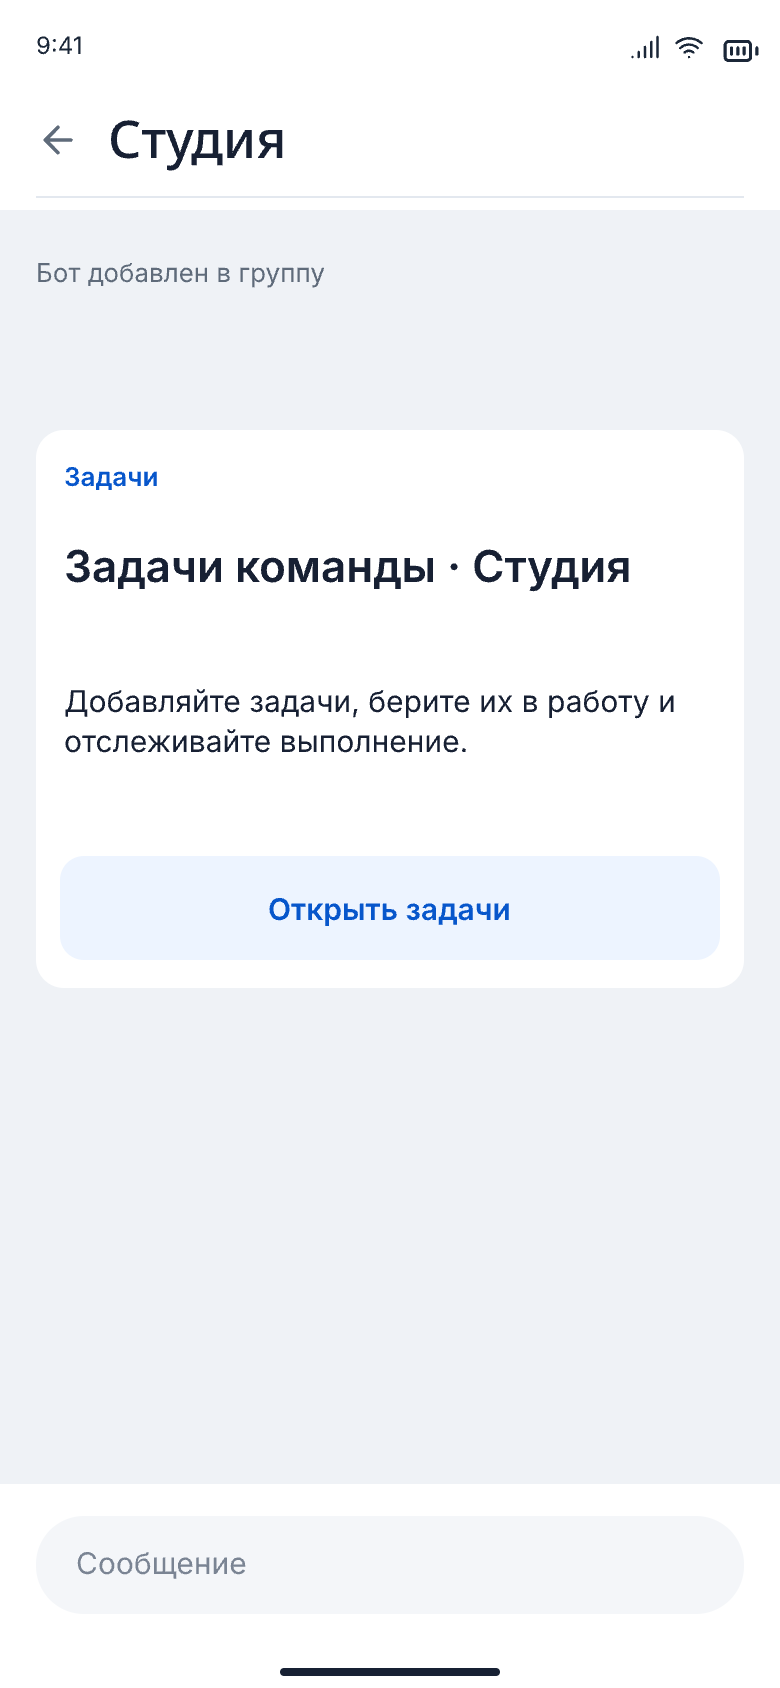
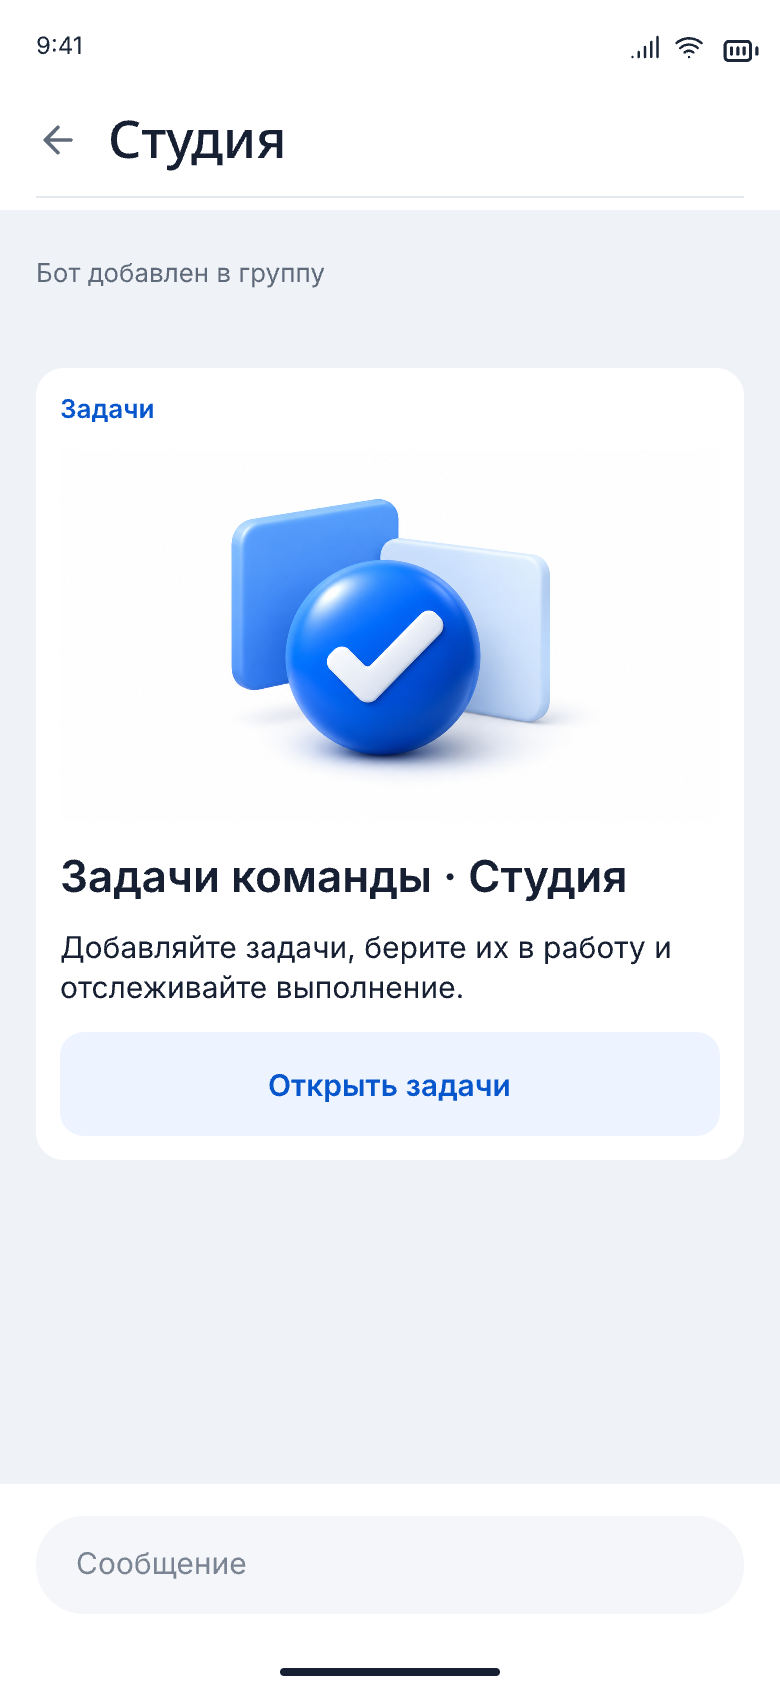
docs: завершить композицию группового сообщения #76

Changed region(s): [[0.0923, 0.2773, 0.8615, 0.4621], [0.0615, 0.4929, 0.8615, 0.6777], [0.0923, 0.2156, 0.1846, 0.2464]]

diff --git a/artifacts/ux/issue-76-handoff.md b/artifacts/ux/issue-76-handoff.md
@@ -9,7 +9,7 @@
 - Владелец принял пакет создания/бэклога («DВсе хорошо принято»), пакет парной доски («Окей, норм») и групповой пакет («ок»).
 - Затем отдельно приняты изображение и формат одного сообщения: изображение сверху, согласованный текст подписью, кнопка «Открыть задачи».
 - Предложенная переделка блокеров отклонена: «Не обязательно, уже в целом норм сделано там все». Новый экран установки блокера из канбана/деталей не рисуется и не реализуется в этом цикле. Это не отменяет уже принятую возможность задать начальный статус «Блокер» при создании в #77.
-- Публикация решений, commit и PR разрешены отдельным «Да». Изменения кода приложения, merge, закрытие Issues и deploy этим не разрешены.
+- Первый пакет опубликован и влит через PR #84 по отдельной команде `/taskfinish`. После предъявления совмещённого сообщения владелец ответил «OOk что дальше», затем «Го» на предложение опубликовать последнюю композицию через PR и закрыть #76. Это завершение дизайна, не запуск кода #77 или deploy.
 - Физические Telegram-устройства, реальная отправка ботом, работа API/DB и доступ из MCP этим дизайном не проверены.
 
 ## Создание и бэклог: #77–#78
@@ -73,7 +73,7 @@
 - [Подключение и первое открытие](exports/issue-76-group/review-01-connect.png).
 - [Повторный вход и ошибки](exports/issue-76-group/review-02-return.png).
 
-**Граница визуального evidence:** `Mt93Z` / `a8ltz` и соответствующий обзор показывают принятый текстовый вариант сообщения до добавления иллюстрации. Картинка принята отдельно позднее и пока не встроена в эти roots/PNG. Конечный формат выше имеет приоритет; нельзя реализовать текстовый вариант без изображения по старому PNG. Совмещённый макет сообщения с изображением не экспортировался, Telegram smoke не выполнялся.
+**Совмещённый макет:** `Mt93Z` (390 px) / `a8ltz` (320 px) содержат общую иллюстрацию над подписью и одну кнопку в том же сообщении. Обновлены оба PNG и обзор подключения. Белый блок использует вертикальную компоновку: отправитель, изображение, заголовок, описание, кнопка; на 320 px заголовок переносится, текст и действие не обрезаются. Собранная композиция принята после предъявления; metadata — `approved`. Это макет Telegram-чата, не реальная отправка ботом и не Telegram smoke.
 
 ## Второстепенные экраны: #81
 
@@ -82,11 +82,27 @@
 ## Проверка и ограничения
 
 - Новые roots и PNG сверяются по индексу ниже. Ширины макетов — 390/320 px; PNG экспортированы в масштабе 2× (780×1688 / 640×1688).
-- Старые roots относительно базового commit сохранены без изменений. Метаданные новых roots отмечены `approved`; название `REVIEW` сохранено для стабильности идентификаторов.
+- Старые roots относительно базового commit сохранены без изменений. Все 73 принятых root отмечены `approved`. Название `REVIEW` сохранено для стабильности идентификаторов.
 - В пакетах есть клавиатура, пустые состояния, ожидание, ошибки, отказы в доступе, успех и возврат; это выборочные состояния сценариев, а не полный декартов набор.
 - Статические макеты не доказывают focus trap, Escape/return focus, 200% text sizing, работу экранного диктора, Telegram iOS/Android, API, права и безопасный retry. Эти проверки выполняются при реализации и в #83.
 - #82 (MCP) остаётся отдельным design/security prerequisite. Подключение и права MCP в этом пакете не спроектированы и не реализованы.
 - Следующий implementation slice — #77 после принятия PR и отдельной команды. Публикация handoff не запускает реализацию автоматически.
+
+## Карта наблюдений и переходов для design acceptance
+
+Это целевой разбор принятых сценариев, не полный аудит приложения. Источники продуктовых решений — #77–#80 и ответы владельца; индекс ниже связывает каждый сценарий с реальным root/PNG.
+
+- **Создание (#77):** в `apps/web/src/main.tsx:610–623` форма показывает дату/время, но не выбор начального статуса. Новый путь: `create390` / `create320`, выбор `date390` / `time320` / `status390`, при блокере — `blocker320` / `blockerTask390`, затем `afterCreate390`. Ошибка, ожидание и запрет завершения представлены отдельно. Это согласованный новый UX, не утверждение о выполненной API-реализации.
+- **Сбор и разбор (#78):** `apps/web/src/tasks.ts:182–187` исключает неназначенные из «Мои»; «Готово» требует явного фильтра. Путь: заметный вход в `backlog390` / `backlog320`, `claim390`, затем успех либо конфликт. `allUnassigned390` показывает неназначенные других статусов через «Все», не меняя их статус; архив отдельно. Повторное создание — `repeat320`, вставка — `bulkInput390`, предпросмотр, частичная ошибка и успех. Сохранность данных и атомарность проверяются в реализации #78.
+- **Пара (#79):** выбранный владельцем новый сценарий, а не доказанный дефект существующего UI. Путь: `pair_entry390`, `pair_create390`, приглашение владельца, `pair_inviteAccept390`, `pair_joined390`. Доступ, выход, отзыв, замена участника и архив представлены отдельными roots с отказами/ошибками. Решение об обнулении только исполнителя и сохранении истории закреплено выше.
+- **Групповой вход (#80):** исправление предложенного сценария по ответу владельца — одно правильное сообщение, без команд обновления. Путь: `group_guide390`, `group_picker320`, `group_message390` / `group_pinned320`, первичная настройка/ожидание, затем пустой список; повторный вход — `group_return390` / `group_return320`. Ошибка, загрузка и замороженная доска имеют отдельные roots. Картинка встроена в оба макета сообщения, а не оставлена только самостоятельным asset.
+- **Второстепенные поверхности (#81):** browser prompts подтверждены в `apps/web/src/main.tsx:267–274`, но владелец отклонил переделку. Это явное исключение из нового design scope, не исправленный дефект и не скрытый TBD.
+
+### Доступность и граница приёмки
+
+Для совмещённого сообщения рассчитан контраст sRGB: основной текст `#172033` на белом — 16.27:1; кнопка `#0756CB` на `#EDF4FF` — 5.93:1; отправитель `#0756CB` на белом — 6.56:1. Все три пары выше 4.5:1. Это проверка указанных текстовых пар, не полный accessibility-аудит приложения.
+
+Сохранены требования `visual-contract-v2.md`: поля 18/12 px, safe areas, цели нажатия от 44 px, перенос текста, доступная клавиатурная навигация, focus trap/Escape/возврат фокуса для sheets. В новом сообщении кнопка имеет высоту 52 px, подпись остаётся текстом, а иллюстрация не заменяет смысл или название действия. Макеты создания с клавиатурой, ожиданием и ошибкой перечислены в индексе. Проверка реального фокуса, экранного диктора, масштабирования текста и Telegram iOS/Android остаётся у implementation children и #83: статический PNG её не доказывает. Блокирующих вопросов по композиции/текстам нет; техническая проверка date-only из #77 и отдельный security-дизайн #82 не выдаются за завершённые этим handoff.
 
 ## Индекс roots и экспортов
 
